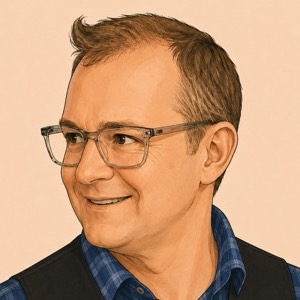
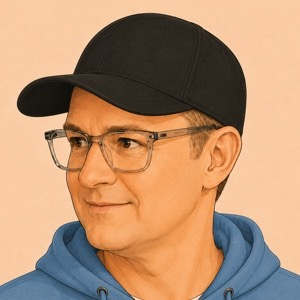
New Pixel Whisperer portrait
Measured rather than dropped into the old crop, which is the point of doing
it per image: this one wears a cap and sits higher in the frame than the
portrait it replaces, so reusing those numbers would have taken the top off
it. Subject starts 8% down and centres at 51%, giving a 300px window at
y=20, x=54 — the same rule the other thirteen were cut by, run on its own
measurements.

diff --git a/js/version.js b/js/version.js
@@ -10,7 +10,7 @@
  * The 1.12 lineage continues the old hand-bumped cache names, which reached
  * lucy-learns-v11 before this file existed.
  */
-export const APP_VERSION = '1.130.0';
+export const APP_VERSION = '1.131.0';
 
 /**
  * The day this build went out, shown under the version on the splash.
